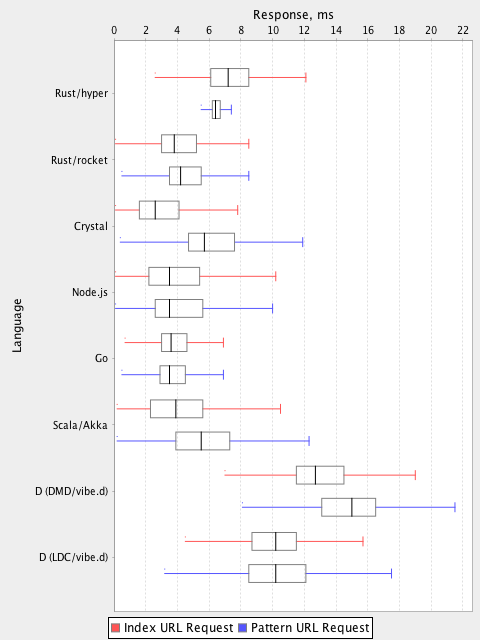
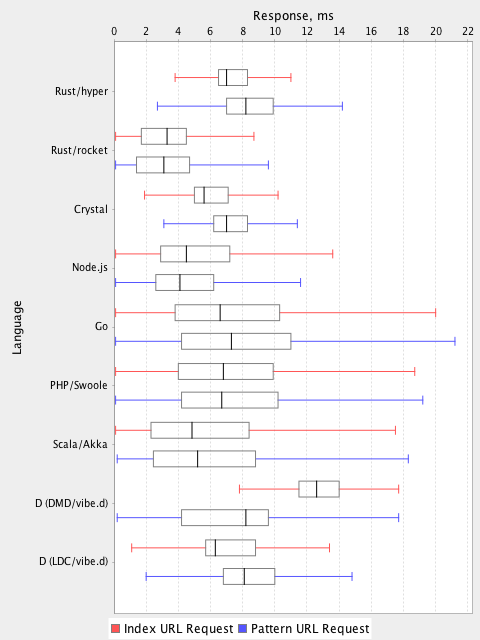
PHP benchmark has been added.

diff --git a/php/main.php b/php/main.php
@@ -1,0 +1,22 @@
+<?php
+
+$http = new swoole_http_server('127.0.0.1', 3000);
+
+$http->on('request', function ($request, $response) {
+    $pattern = "/\/greeting\/([a-z]+)/";
+    $response->header('Content-Type', 'text/plain; charset=utf-8');
+    $uri = $request->server['request_uri'];
+    if ($uri == '/') {
+        $response->end('Hello World!');
+    } else if (preg_match($pattern, $uri, $matches)) {
+        $response->end('Hello, ' . $matches[1]);
+    } else {
+        $response->status(404);
+        $response->end();
+    }
+});
+
+$pid = getmypid();
+echo "Master $pid is running", PHP_EOL;
+
+$http->start();

diff --git a/README.md b/README.md
@@ -6,12 +6,12 @@ A simple web benchmark of Go, Crystal, Rust, D, Scala, Node.js and Crystal.
 
 ### MacOS
 
-OS: Mac OS X 10.12.6 (16G29)
+OS: Mac OS X 10.13.3
 
 Hardware: MacBook Pro (CPU: 2.3 GHz Intel Core i7, Mem: 16 GB 1600 MHz DDR3)
 
-Software: Go 1.9, Rust 1.22.0-nightly, Scala 2.12.3, Node.js 8.6.0, DMD 2.076.0,
-LDC 1.4.0, Crystal 0.23.1.
+Software: Go 1.9.3, Rust 1.25.0-nightly, Scala 2.12.4, Node.js 9.4.0, DMD 2.078.1,
+LDC 1.7.0, Crystal 0.24.1, PHP 7.1.13.
 
 ![](suite/results/mac.png?raw=true)
 
@@ -117,3 +117,9 @@ Uses [Akka](http://akka.io) toolkit:
 ### Node.js
 
     node nodejs/main.js
+
+### PHP
+
+Uses [Swoole](https://github.com/swoole/swoole-src) extension:
+
+    php -c php/php.ini php/main.php
